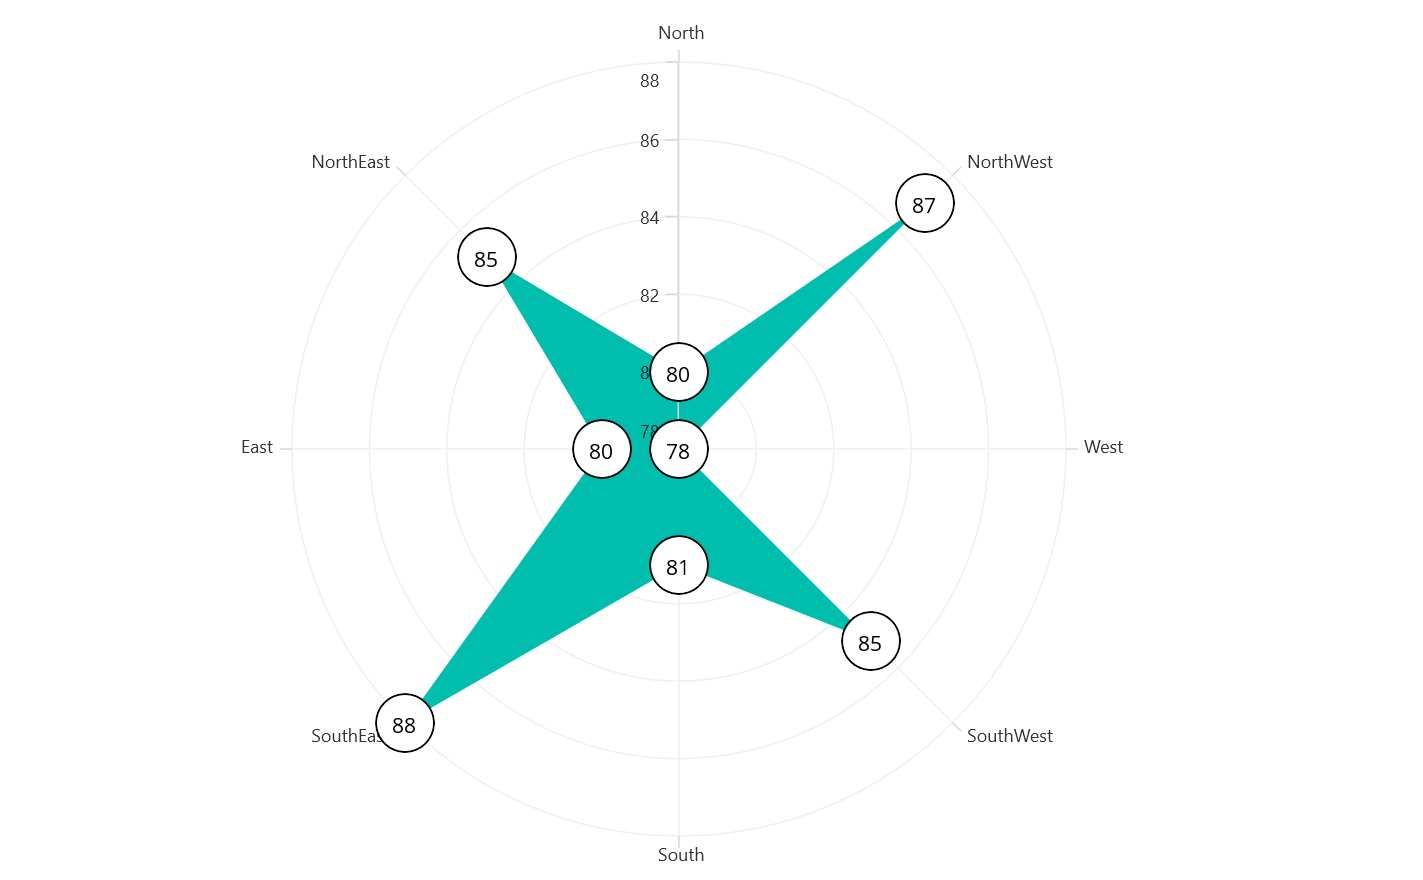
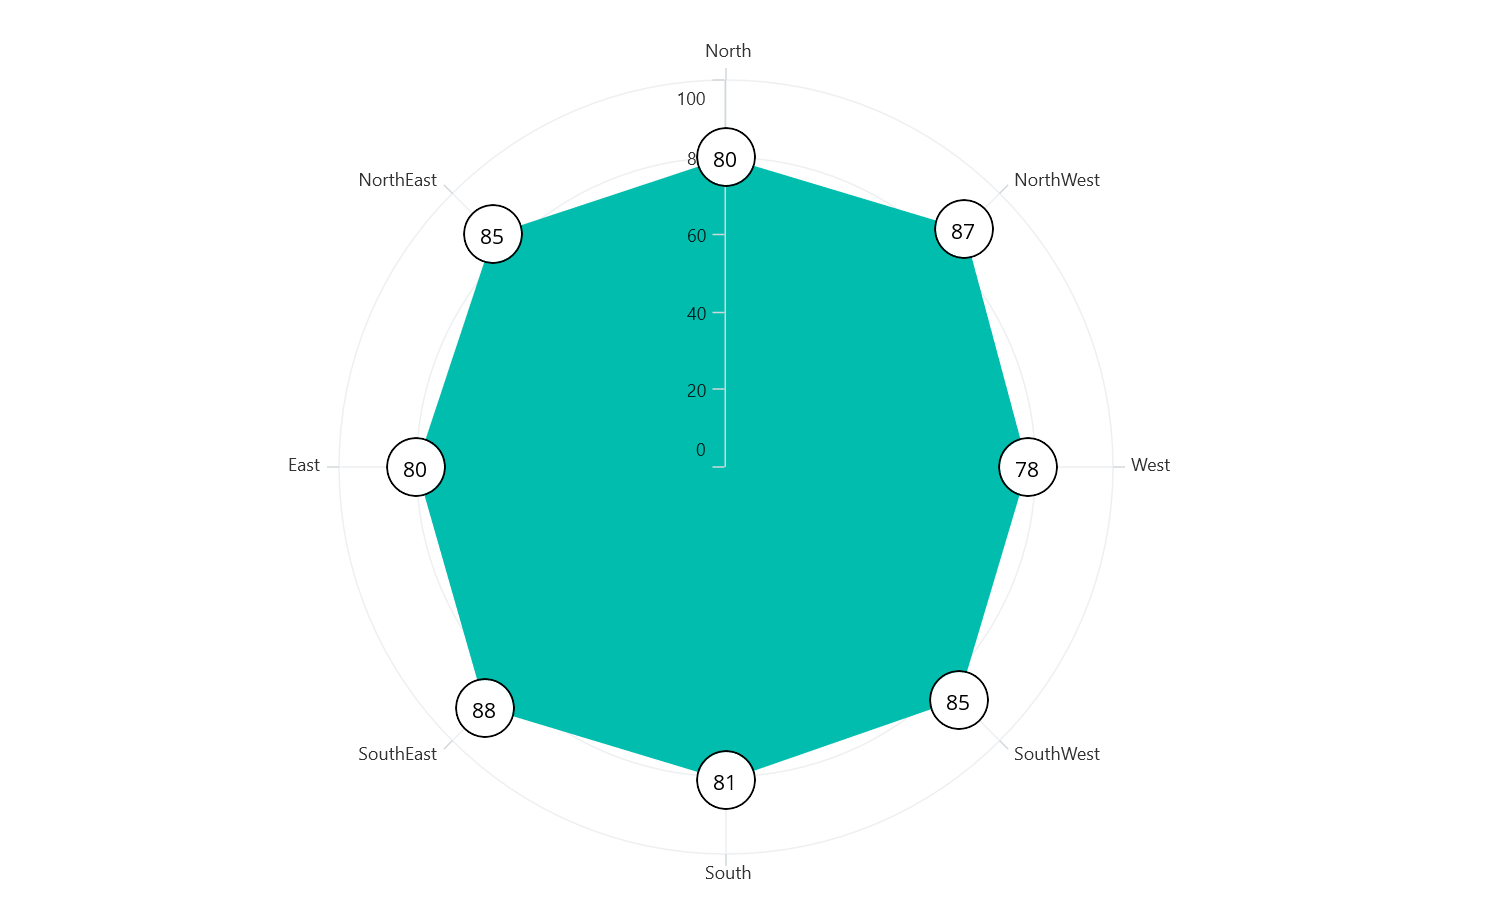
Updated image for label context

diff --git a/MAUI/Polar-Charts/DataLabels.md b/MAUI/Polar-Charts/DataLabels.md
@@ -260,4 +260,4 @@ The content of the label can be customized using the [LabelContext]() property. 
 
 {% endtabs %}
 
-![DataLabel context in MAUI Chart](DataLabel_images/)
+![DataLabel context in MAUI Chart](DataLabel_images/MAUI_polar_datalabel_context.png)
